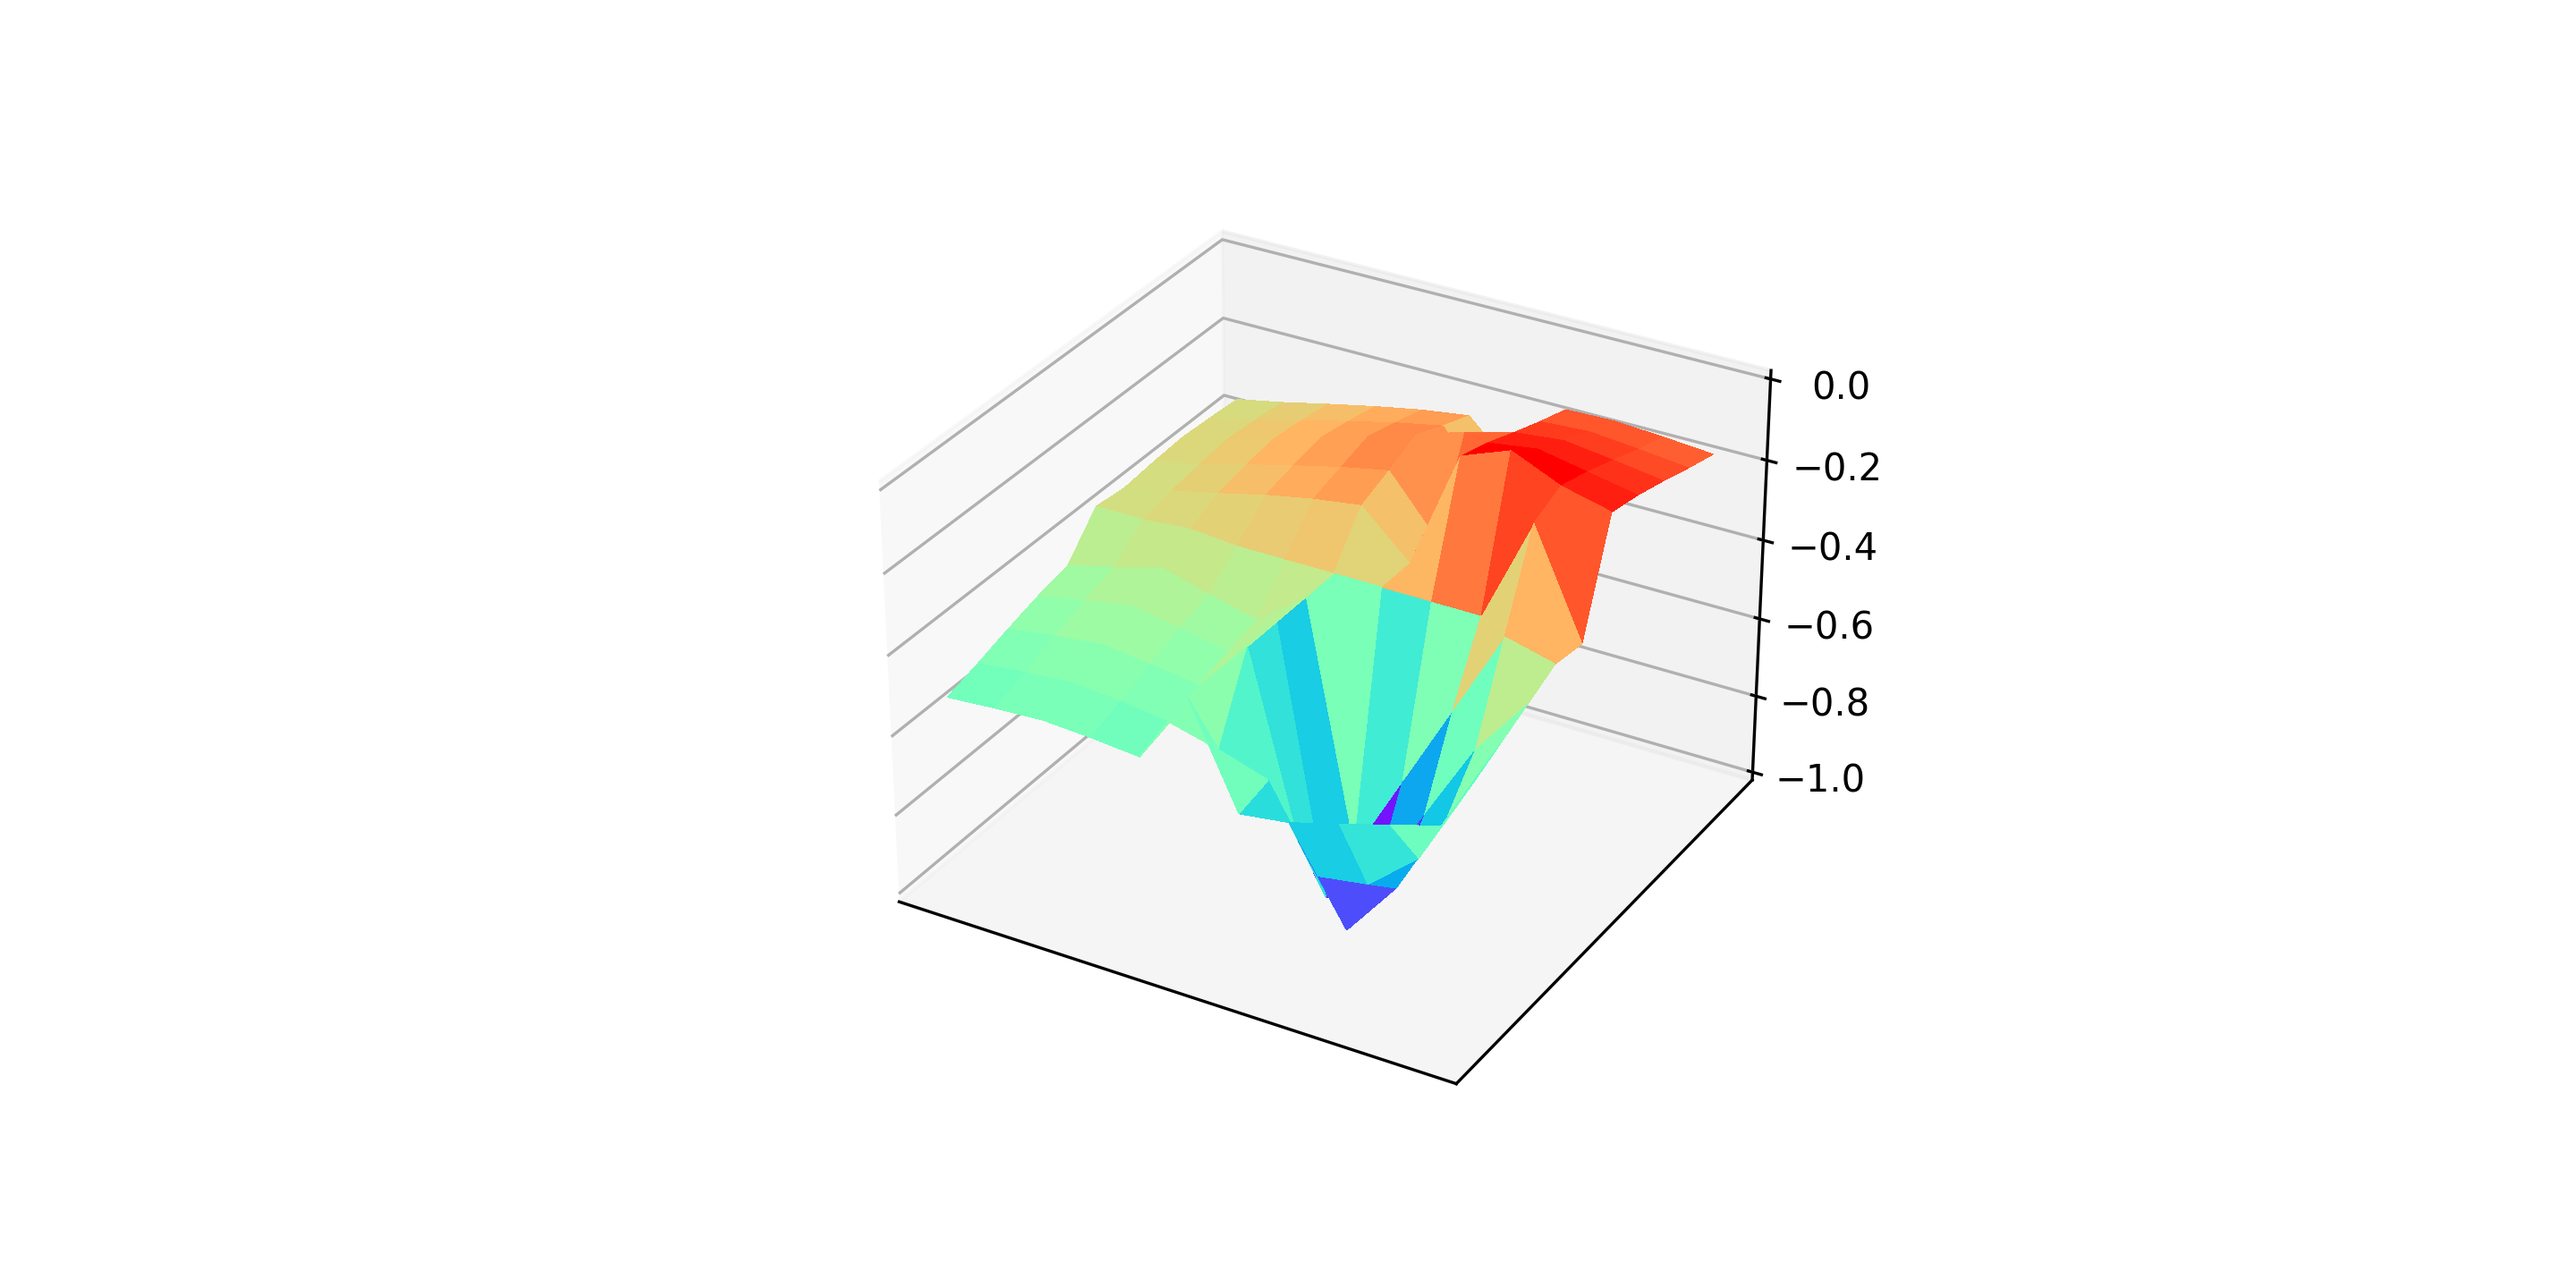
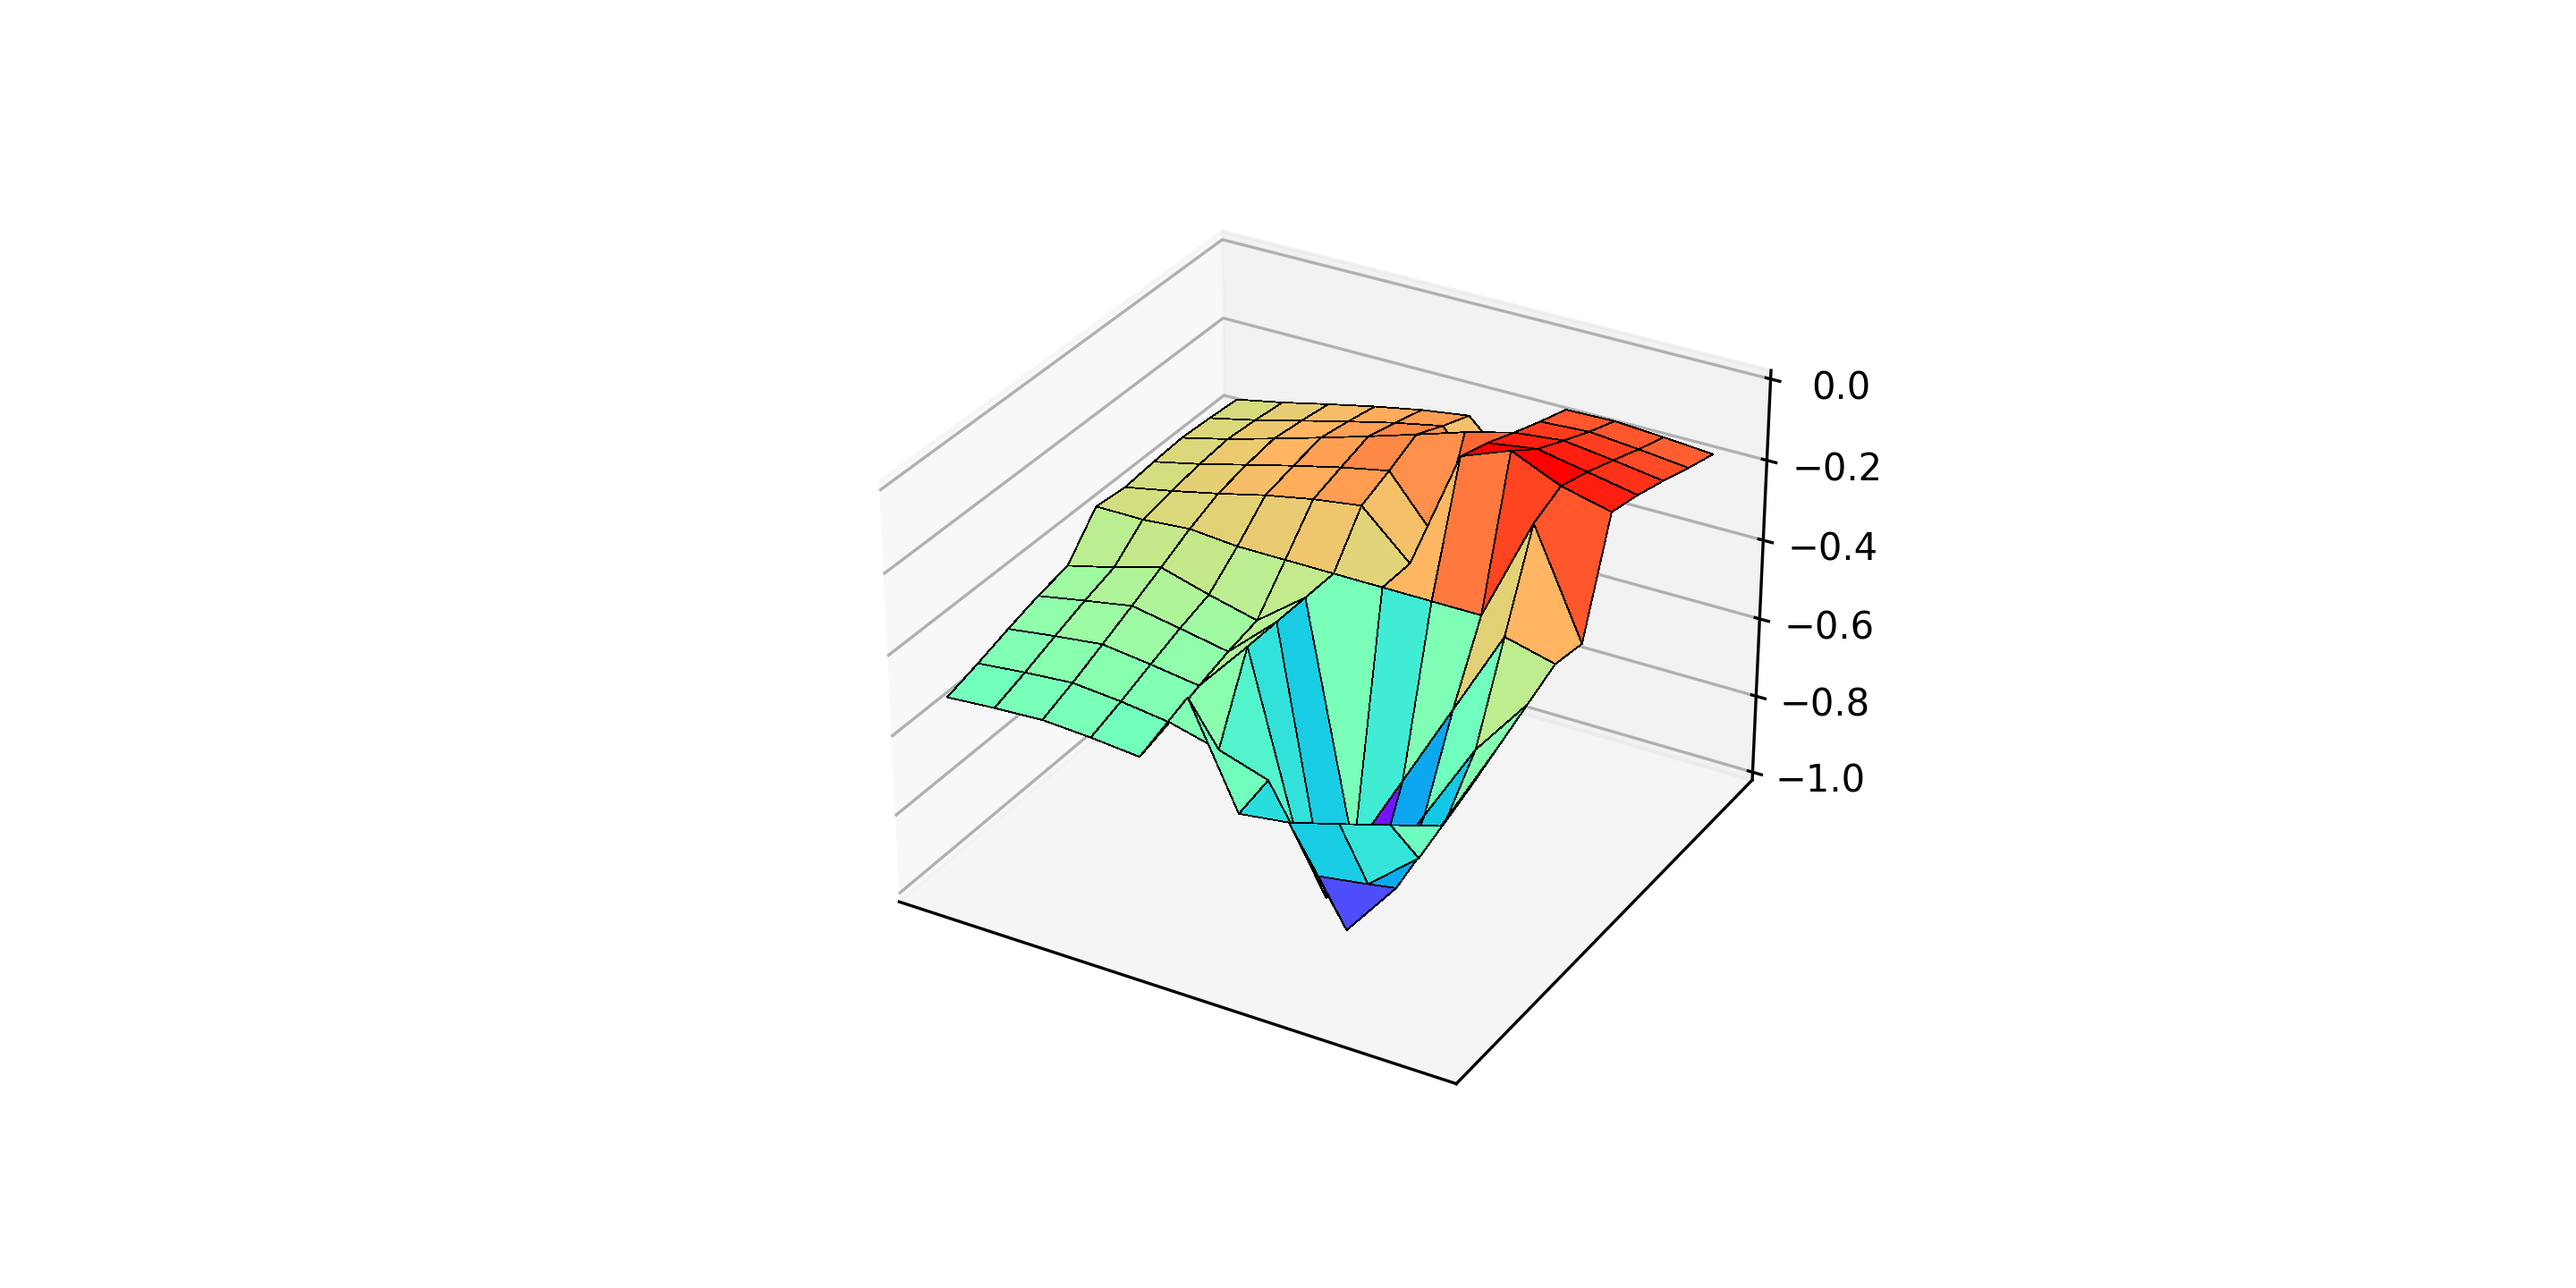
small change

diff --git a/examples/reward_shaping_fit.py b/examples/reward_shaping_fit.py
@@ -291,7 +291,7 @@ def main(argv):
     if FLAGS.r_shaped_weight == 0: # equivalent to no reward shaping..
         quit()
 
-    Q, t, performance = q_learning(env, env_eval, reward_shaped, max_iter=50000, log_interval=10, \
+    Q, t, performance = q_learning(env, env_eval, reward_shaped, max_iter=20000, log_interval=10, \
             alpha=FLAGS.lr, r_shaped_weight=FLAGS.r_shaped_weight)
     
     

diff --git a/examples/reward_shaping.py b/examples/reward_shaping.py
@@ -233,7 +233,7 @@ def main(argv):
     np.random.seed(FLAGS.seed)
     random.seed(FLAGS.seed)
 
-    Q, t, performance = q_learning(env, env_eval, reward_shaped, max_iter=50000, log_interval=10, \
+    Q, t, performance = q_learning(env, env_eval, reward_shaped, max_iter=20000, log_interval=10, \
             alpha=FLAGS.lr, r_shaped_weight=FLAGS.r_shaped_weight)
     
 

diff --git a/examples/closed_form_plot.py b/examples/closed_form_plot.py
@@ -118,7 +118,7 @@ def plot_3d(env, v):
 
     x, y = value_map.shape
     x, y = np.meshgrid(range(x), range(y))
-    ax.plot_surface(x, y, value_map, cmap=cm.rainbow, linewidth=0, antialiased=False)
+    ax.plot_surface(x, y, value_map, cmap=cm.rainbow, linewidth=0.2, antialiased=False, edgecolors='k')
     # ax.title.set_text("SR")
 
     ax.set_zlim(-1, 0)
